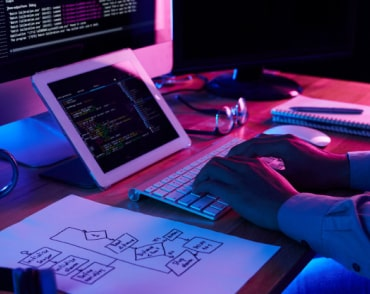
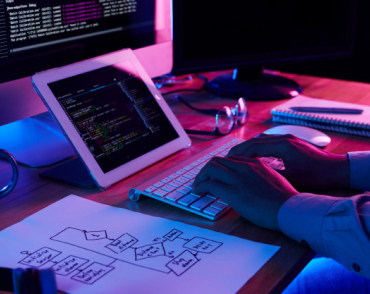
description img@2x

diff --git a/index.html b/index.html
@@ -91,15 +91,18 @@
             <h2 class="title description-title">Чем мы занимаемся</h2>
             <ul class="list description-list">
                 <li>
-                    <img src="./images/section-3/box-1.jpg" alt="написание кода" width="370" height="294">
+                    <img srcset="./images/section-3/box-1.jpg 1x, ./images/section-3/box-1@2x.jpg 2x" 
+                    src="./images/section-3/box-1.jpg" alt="написание кода" width="370" height="294">
                     <p class="label">Десктопные приложения</p>
                 </li>
                 <li>
-                    <img src="./images/section-3/box-2.jpg" alt="адаптивная верстка" width="370" height="294">
+                    <img srcset="./images/section-3/box-2.jpg 1x, ./images/section-3/box-2@2x.jpg 2x"
+                    src="./images/section-3/box-2.jpg" alt="адаптивная верстка" width="370" height="294">
                     <p class="label">Мобильные приложения</p>
                 </li>
                 <li>
-                    <img src="./images/section-3/box-3.jpg" alt="таблица цветов на планшете" width="370" height="294">
+                    <img srcset="./images/section-3/box-3.jpg 1x, ./images/section-3/box-3@2x.jpg 2x"
+                     src="./images/section-3/box-3.jpg" alt="таблица цветов на планшете" width="370" height="294">
                     <p class="label">Дизайнерские решения</p>
                 </li>
             </ul>
